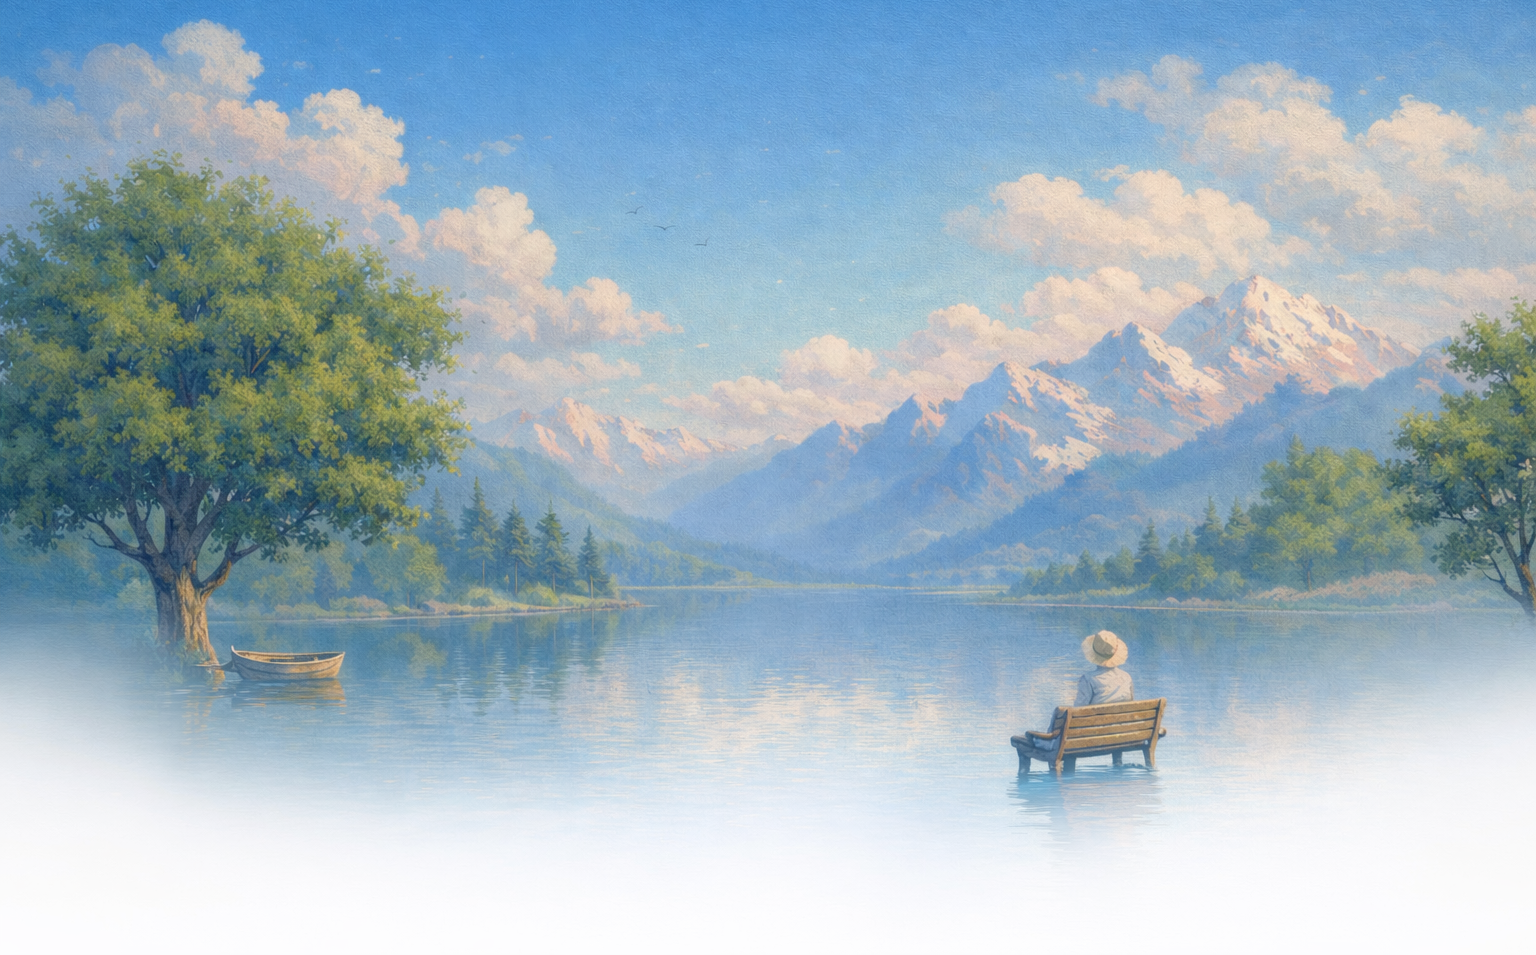
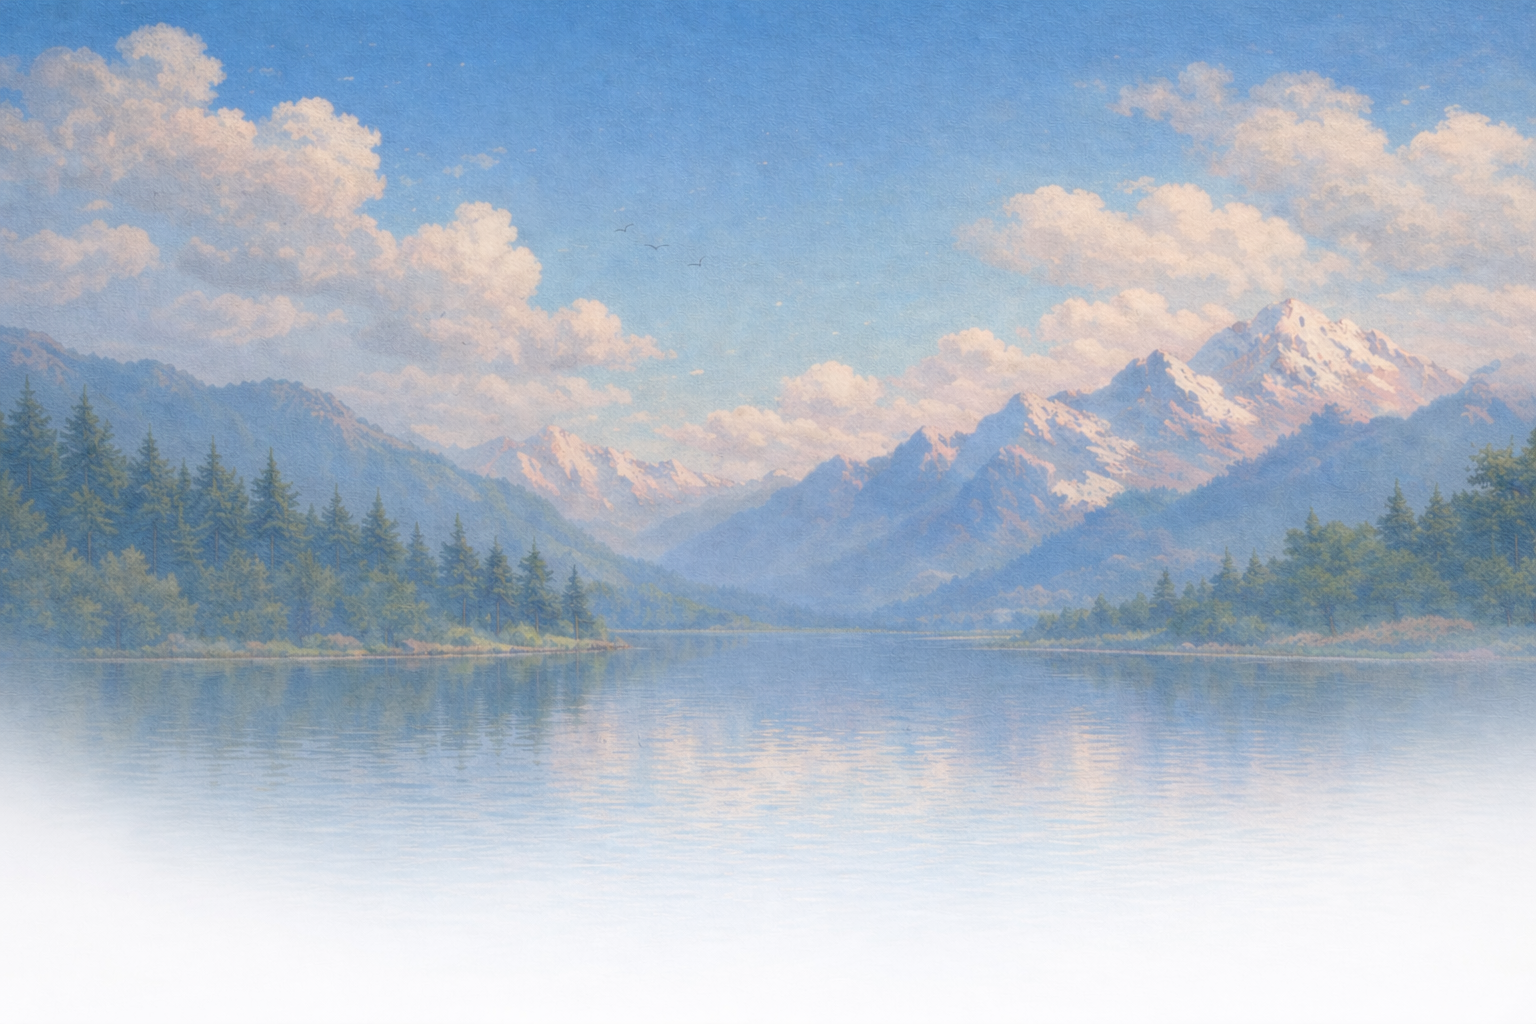
Change main font to SF Pro Display

diff --git a/style.css b/style.css
@@ -244,7 +244,7 @@ nav {
        - Minimum: 3rem (so it's never touching the edge on tiny phones)
        - Ideal: 10vh (10% of screen height - keeps it proportional)
        - Maximum: 6rem (stops it from floating too high on giant screens) */
-    padding-bottom: clamp(3rem, 7vh, 6rem);
+    padding-bottom: clamp(2rem, 6vh, 6rem);
     padding-left: 2rem;
     padding-right: 2rem;
 }
@@ -253,7 +253,7 @@ h1 {
     /* Remove margin-top: 35rem; <--- DELETE THIS */
     margin-top: 0; 
     opacity:0.9;
-    font-family: var(--font-serif);
+    font-family: var(--font-ui);
     font-weight: 500;
     font-size: clamp(3rem, 4.5vw, 5rem);
     line-height: 1.05;
